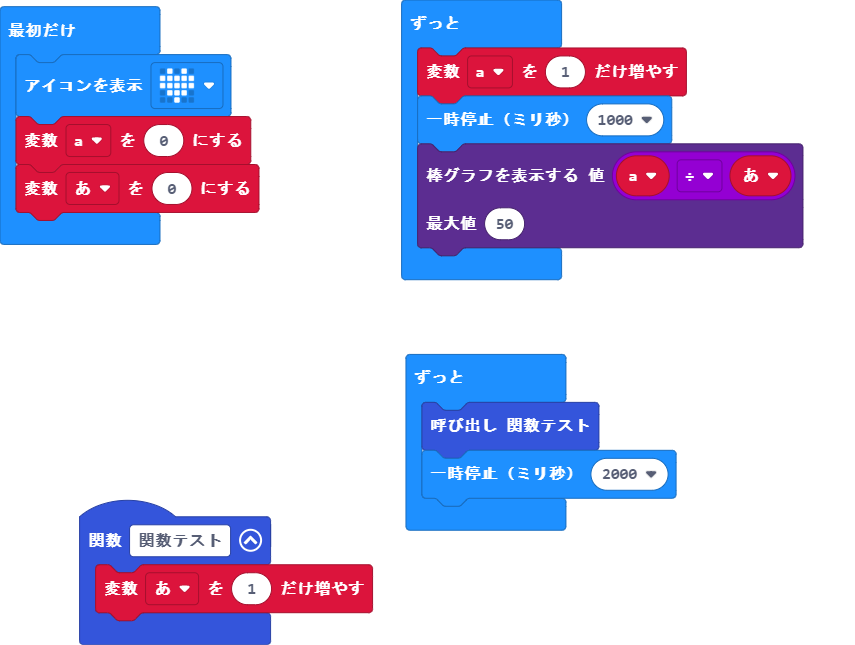
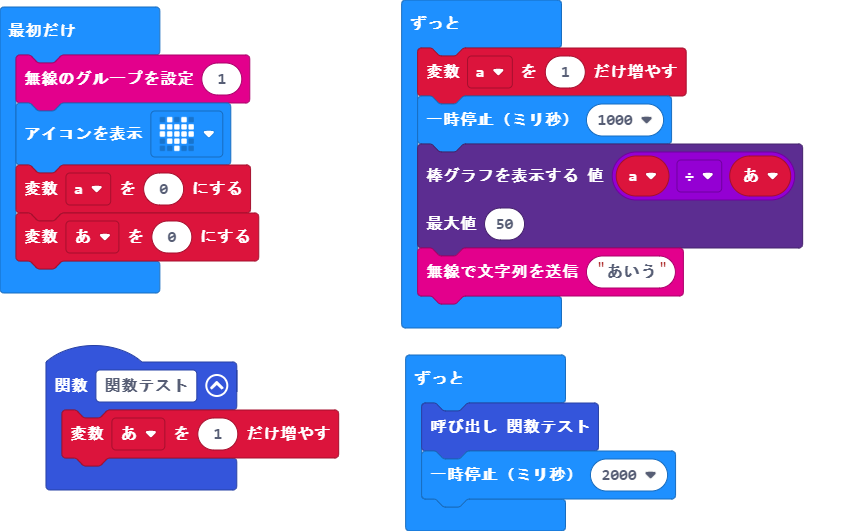
通信処理を追加

diff --git a/main.ts b/main.ts
@@ -1,6 +1,7 @@
 function 関数テスト () {
     あ += 1
 }
+radio.setGroup(1)
 basic.showIcon(IconNames.Heart)
 let a = 0
 let あ = 0
@@ -11,6 +12,7 @@ basic.forever(function () {
     a / あ,
     50
     )
+    radio.sendString("あいう")
 })
 basic.forever(function () {
     関数テスト()
